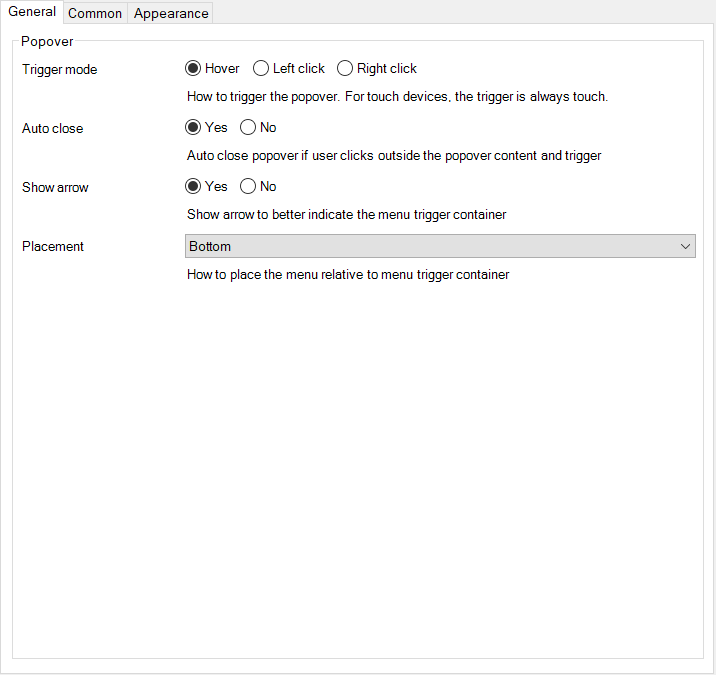
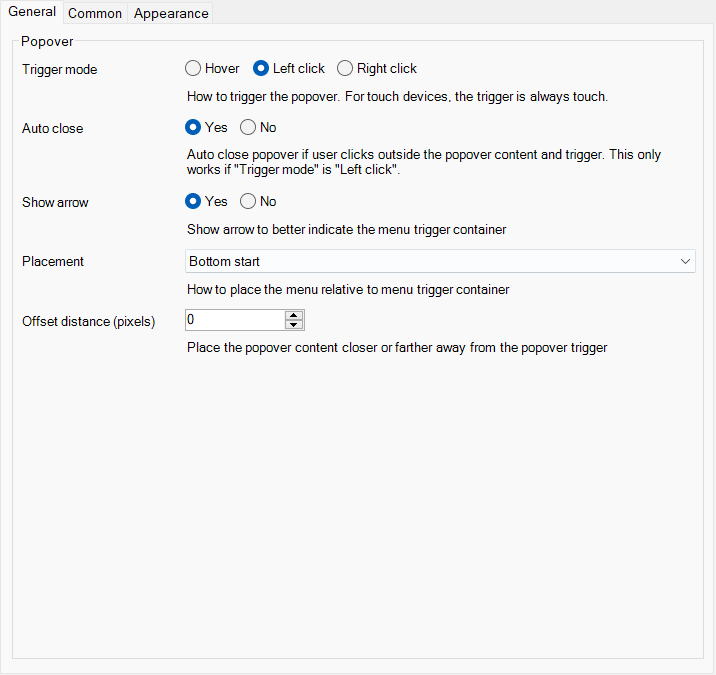
Added extra examples

diff --git a/README.md b/README.md
@@ -8,7 +8,7 @@ You can use this widget to render any content when interacting with the trigger.
 
 ### 1.1 Browser example
 
-<table><tbody><tr><td>Example 1</td><td>Example 2</td><td>Example 3</td></tr><tr><td><img src="https://raw.githubusercontent.com/simplylogicninjas/sl-widget-popover/main/docs/images/popover_browser_example.png" width="200"></td><td><img src="https://raw.githubusercontent.com/simplylogicninjas/sl-widget-popover/main/docs/images/popover_browser_example2.png" width="200"></td><td><img src="https://raw.githubusercontent.com/simplylogicninjas/sl-widget-popover/main/docs/images/popover_browser_example3.png" width="200"></td></tr></tbody></table>
+<table><tbody><tr><td>Example 1</td><td>Example 2</td><td>Example 3</td></tr><tr><td><img src="https://raw.githubusercontent.com/simplylogicninjas/sl-widget-popover/main/docs/images/popover_browser_example.png" width="200"></td><td><img src="https://raw.githubusercontent.com/simplylogicninjas/sl-widget-popover/main/docs/images/popover_browser_example4.png" width="200"></td><td><img src="https://raw.githubusercontent.com/simplylogicninjas/sl-widget-popover/main/docs/images/popover_browser_example4.png" width="200"></td></tr></tbody></table>
 
 ## 2. Usage
 
@@ -17,12 +17,12 @@ You can use this widget to render any content when interacting with the trigger.
 
 ### 2.1 Modeler example
 
-<img src="https://raw.githubusercontent.com/simplylogicninjas/sl-widget-popover/main/docs/images/modeler_example.png" width="600"/>
-
-
+<img src="https://raw.githubusercontent.com/simplylogicninjas/sl-widget-popover/main/docs/images/modeler_example.png" width="300">
+<img src="https://raw.githubusercontent.com/simplylogicninjas/sl-widget-popover/main/docs/images/modeler_example2.png" width="300">
 
 ### 2.2 Configuration example
-<img src="https://raw.githubusercontent.com/simplylogicninjas/sl-widget-popover/main/docs/images/popover_general_tab.png" width="600"/>
+
+<img src="https://raw.githubusercontent.com/simplylogicninjas/sl-widget-popover/main/docs/images/popover_general_tab.png" width="600">
 
 ## 3. Use Cases
 
@@ -31,7 +31,9 @@ You can use this widget to render any content when interacting with the trigger.
 
 ## 4. Customization
 
+Avoid using margins/padding on the widget itself, if you want to add padding/margins place these on the containers inside the widget.
+If you want to style the active state of the trigger you can use the modifier ``.is-active``
+
 To customize the content-container you can edit the styling with css using the classname:
 
 * .sl-popover-content
-
